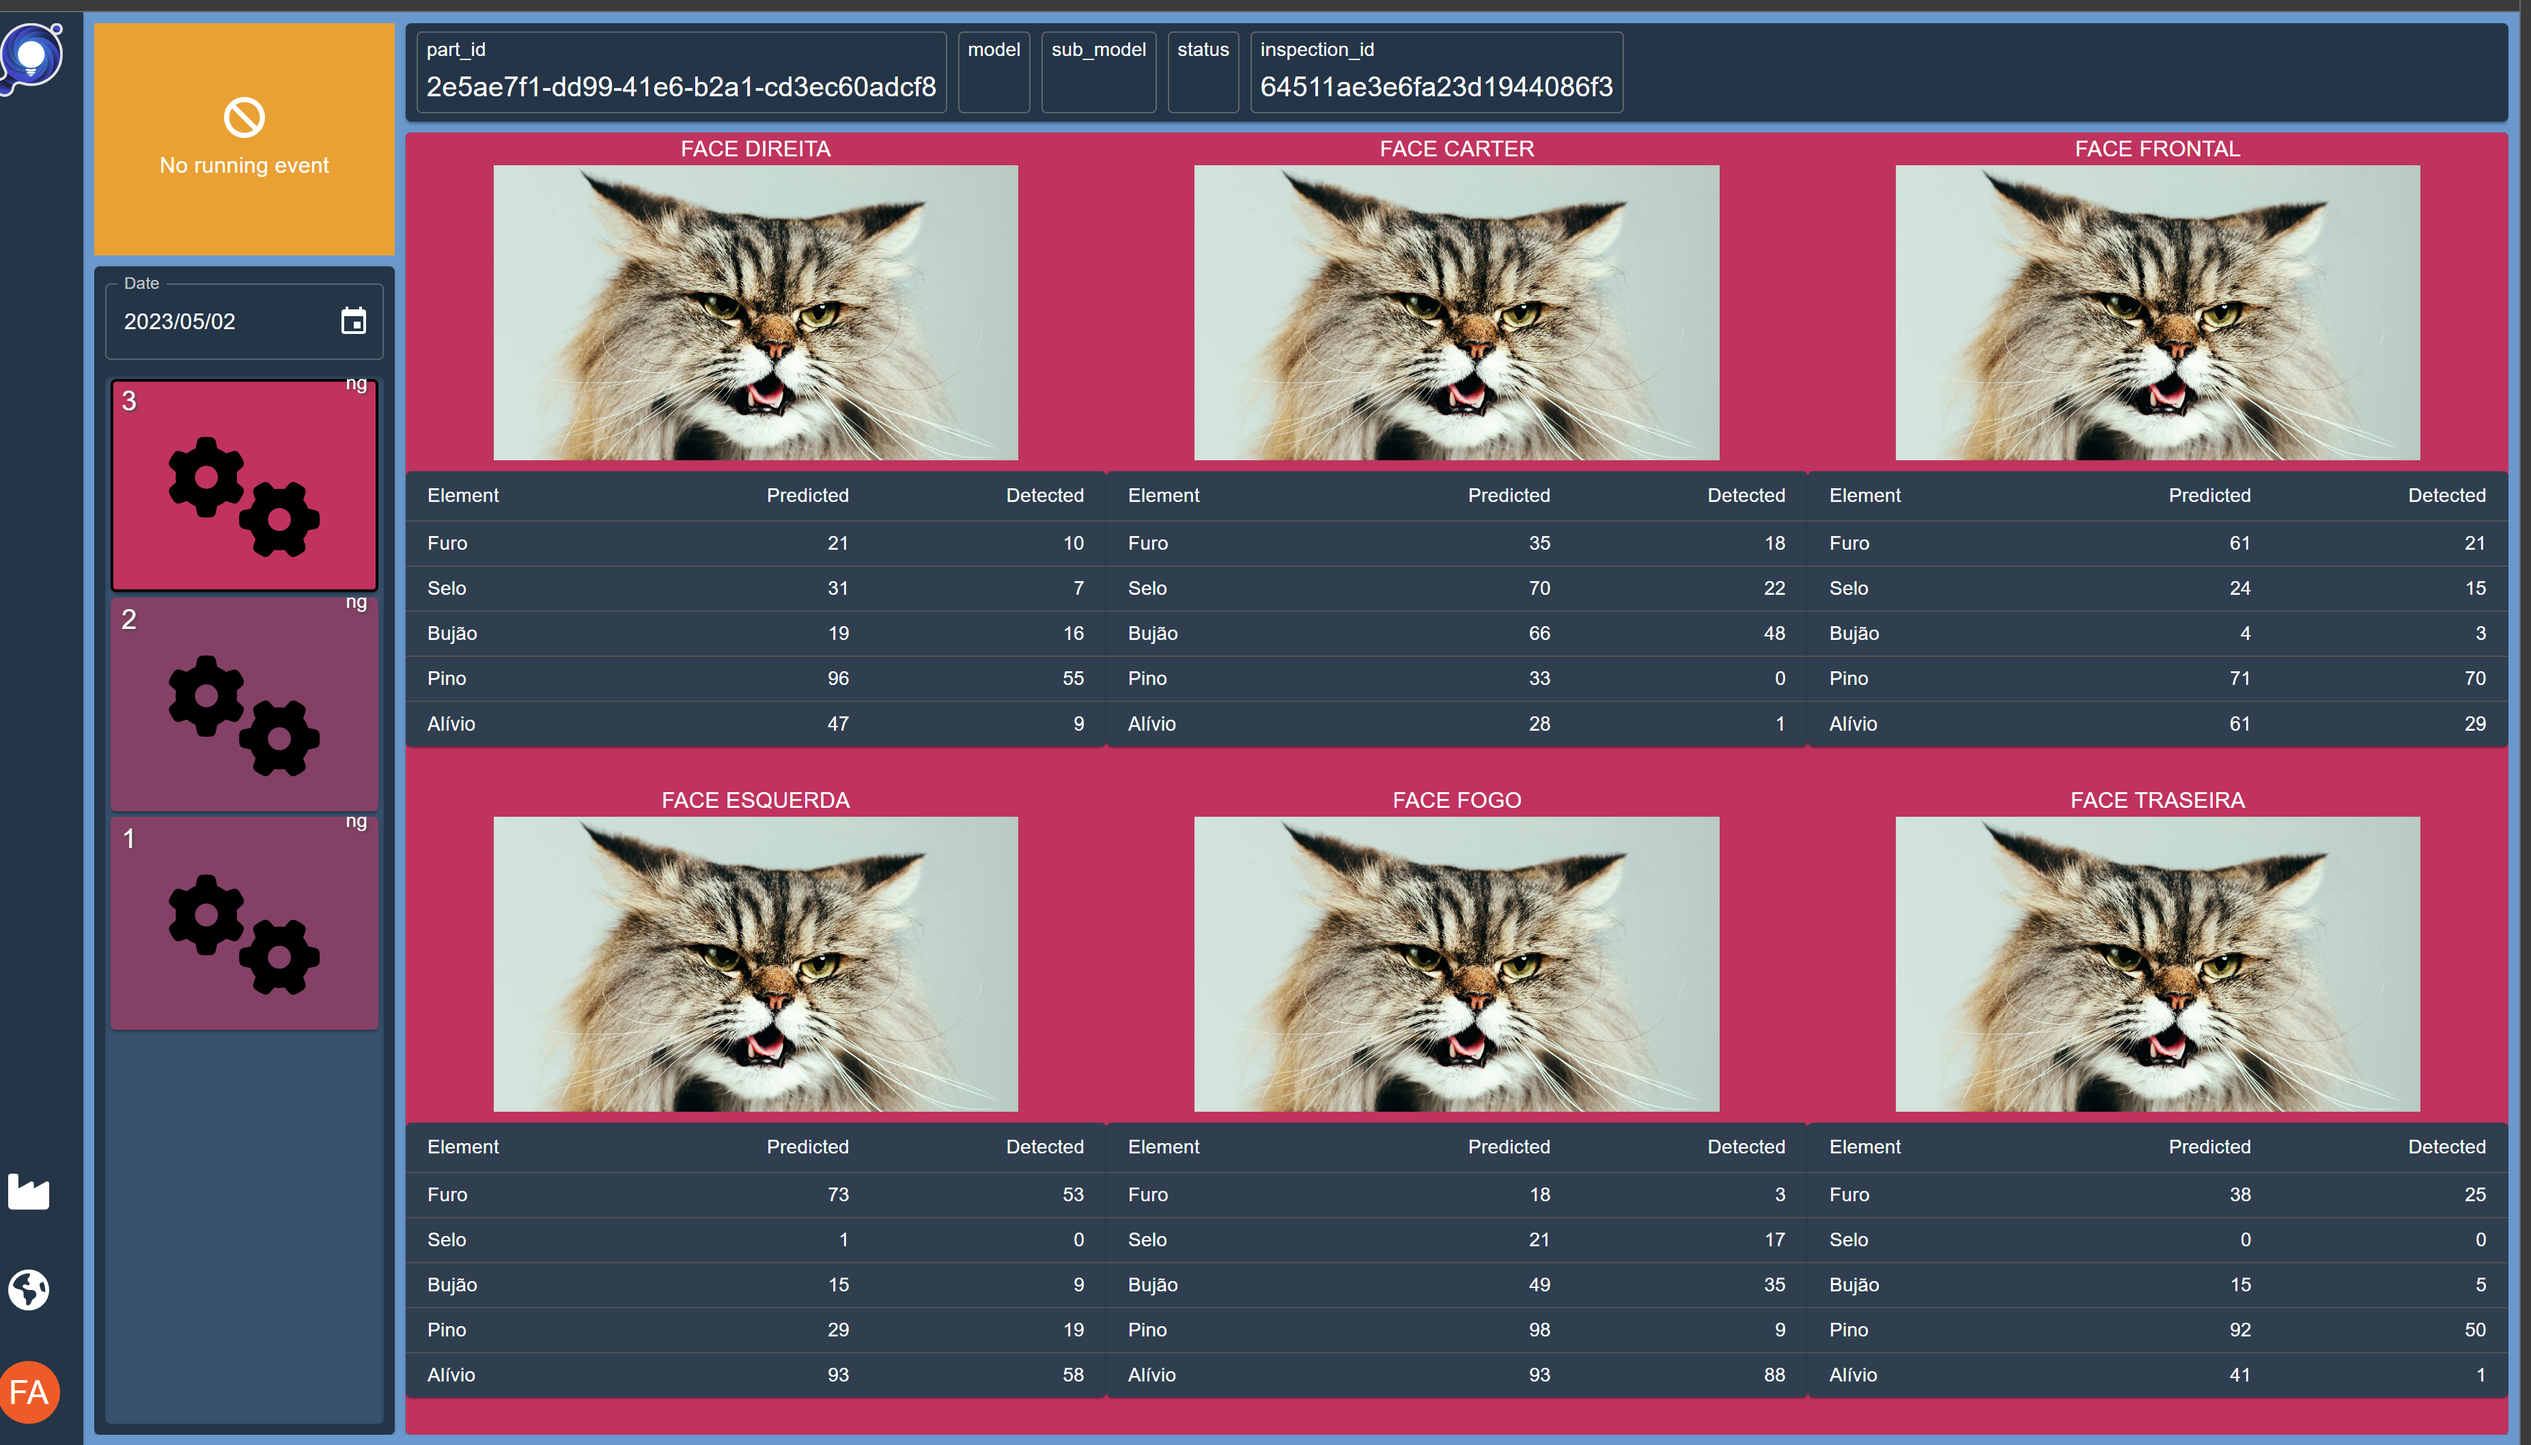
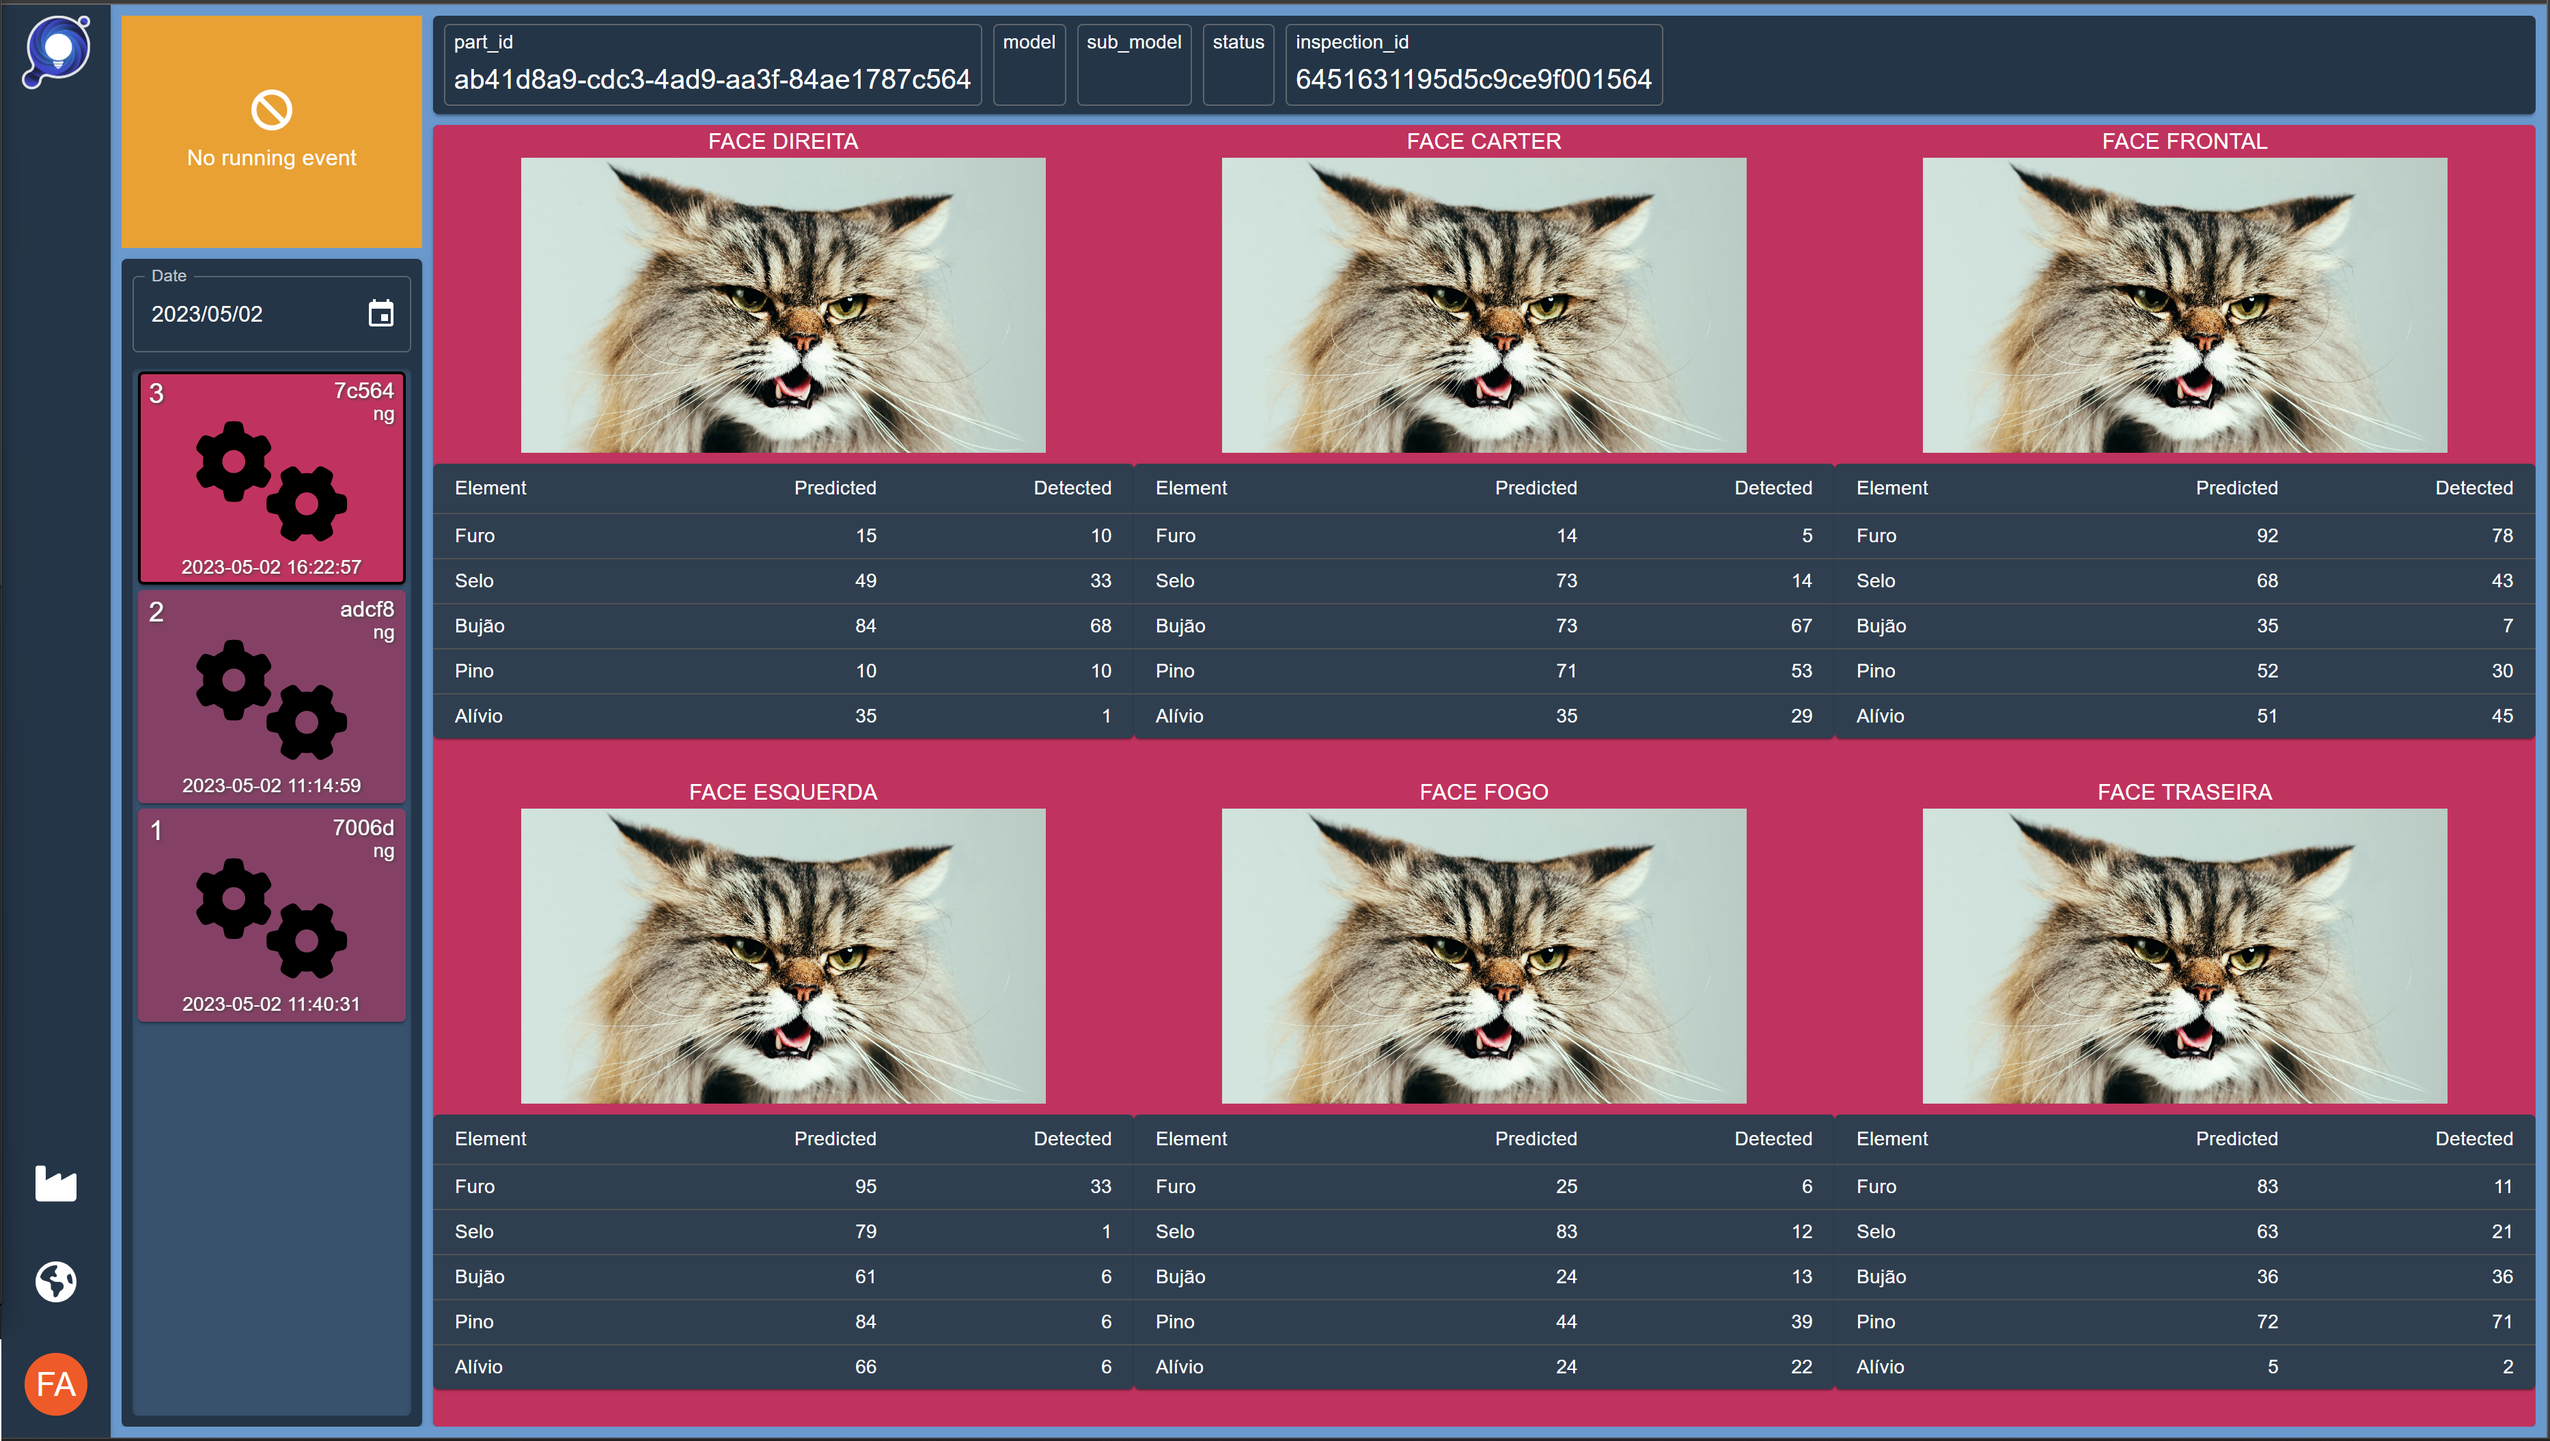
several adjustments in ux for serial hmi

Changed region(s): [[0.0, 0.0, 1.0, 1.0]]

diff --git a/src/components/EventSerialDataBox/index.js b/src/components/EventSerialDataBox/index.js
@@ -2,7 +2,7 @@
 import React, { useEffect, useState } from 'react';
 
 // Design
-import { Grid, Typography } from '@mui/material';
+import { CircularProgress, Grid, Typography, Box } from '@mui/material';
 import Table from '@mui/material/Table';
 import TableBody from '@mui/material/TableBody';
 import TableCell from '@mui/material/TableCell';
@@ -50,7 +50,13 @@ const styleSx = {
   mainBoxDisabled: Object.assign({}, mainBoxSx, { opacity: 0.8 }),
 };
 
-export default function EventSerialDataBox({ data, config, disabled, appBarHeight }) {
+export default function EventSerialDataBox({
+  data
+  , config
+  , disabled
+  , appBarHeight
+  , loading
+}) {
 
   const [inspections, setInspections] = useState([]);
   const [openDialog, setOpenDialog] = useState(false);
@@ -74,6 +80,9 @@ export default function EventSerialDataBox({ data, config, disabled, appBarHeigh
       })
       setInspections(documents);
     }
+    else {
+      setInspections([]);
+    }
   }, [data]);
 
   useEffect(() => {
@@ -90,61 +99,81 @@ export default function EventSerialDataBox({ data, config, disabled, appBarHeigh
       container
     >
       {
-        inspections.map((inspection) => (
-          <Grid
-            item
-            key={inspection._id}
-            xs={6}
-            sx={{
-              justifyContent: 'center',
-              alignItems: 'center',
-              height: '100%',
-              backgroundColor: inspection.ok ? colors.statuses['ok'] : colors.statuses['ng'],
-            }}
-          >
-            <Typography textAlign={'center'} textTransform={'uppercase'}>
-              {inspection.event_data.scan_data.surface}
-            </Typography>
-            <img
-              src="/assets/cat.webp"
-              style={{
-                objectFit: 'contain',
-                width: "calc(2560px * 0.15)",
-                display: 'block',
-                margin: 'auto',
-                paddingBottom: '.5rem',
-                cursor: 'pointer',
+        !loading && inspections.length > 0 ?
+          inspections.map((inspection) => (
+            <Grid
+              item
+              key={inspection._id}
+              xs={6}
+              sx={{
+                justifyContent: 'center',
+                alignItems: 'center',
+                height: '100%',
+                backgroundColor: inspection.ok ? colors.statuses['ok'] : colors.statuses['ng'],
               }}
-              alt="Inspection"
-              onClick={() => { setOpenDialog(true); setDialogTitle(inspection.event_data.scan_data.surface) }}
-            />
-            <TableContainer component={Paper}>
-              <Table size="small" aria-label="info table">
-                <TableHead>
-                  <TableRow>
-                    <TableCell>{t('element')}</TableCell>
-                    <TableCell align="right">{t('predicted')}</TableCell>
-                    <TableCell align="right">{t('detected')}</TableCell>
-                  </TableRow>
-                </TableHead>
-                <TableBody>
-                  {inspection?.tableInfo.map((row) => (
-                    <TableRow
-                      key={row[0]}
-                      sx={{ '&:last-child td, &:last-child th': { border: 0 } }}
-                    >
-                      <TableCell component="th" scope="row">
-                        {row[0]}
-                      </TableCell>
-                      <TableCell align="right">{row[1]}</TableCell>
-                      <TableCell align="right">{row[2]}</TableCell>
+            >
+              <Typography textAlign={'center'} textTransform={'uppercase'}>
+                {inspection.event_data.scan_data.surface}
+              </Typography>
+              <img
+                src="/assets/cat.webp"
+                style={{
+                  objectFit: 'contain',
+                  width: "calc(2560px * 0.15)",
+                  display: 'block',
+                  margin: 'auto',
+                  paddingBottom: '.5rem',
+                  cursor: 'pointer',
+                }}
+                alt="Inspection"
+                onClick={() => { setOpenDialog(true); setDialogTitle(inspection.event_data.scan_data.surface) }}
+              />
+              <TableContainer component={Paper}>
+                <Table size="small" aria-label="info table">
+                  <TableHead>
+                    <TableRow>
+                      <TableCell>{t('element')}</TableCell>
+                      <TableCell align="right">{t('predicted')}</TableCell>
+                      <TableCell align="right">{t('detected')}</TableCell>
                     </TableRow>
-                  ))}
-                </TableBody>
-              </Table>
-            </TableContainer>
-          </Grid>
-        ))
+                  </TableHead>
+                  <TableBody>
+                    {inspection?.tableInfo.map((row) => (
+                      <TableRow
+                        key={row[0]}
+                        sx={{ '&:last-child td, &:last-child th': { border: 0 } }}
+                      >
+                        <TableCell component="th" scope="row">
+                          {row[0]}
+                        </TableCell>
+                        <TableCell align="right">{row[1]}</TableCell>
+                        <TableCell align="right">{row[2]}</TableCell>
+                      </TableRow>
+                    ))}
+                  </TableBody>
+                </Table>
+              </TableContainer>
+            </Grid>
+          ))
+          :
+          (
+            loading &&
+            <Box
+              sx={{
+                display: 'flex',
+                justifyContent: 'center',
+                alignItems: 'center',
+                height: '100%',
+              }}
+            >
+              <CircularProgress
+                sx={{
+                  color: 'white',
+                }}
+                size='10rem'
+              />
+            </Box>
+          )
       }
 
       <ImageDialog

diff --git a/src/pages/MonitorSerial/index.js b/src/pages/MonitorSerial/index.js
@@ -43,14 +43,20 @@ export default function Monitor({ pageOptions }) {
 
   const [selectedSerial, setSelectedSerial] = useState(null);
   const [selectedSerialCountData, setSelectedSerialCountData] = useState(null);
+  const [loadingSelected, setLoadingSelected] = useState(false);
 
   const onChangeEvent = (serialId) => {
+    setSelectedSerial(null);
+    setLoadingSelected(true);
     API.get.serial({ stationId, serialId })
       .then((data) => {
         setSelectedSerial(data?.serial);
         setSelectedSerialCountData(data.countData);
       })
-      .catch(console.error);
+      .catch(console.error)
+      .finally(() => {
+        setLoadingSelected(false);
+      });
   };
 
   useEffect(() => {
@@ -133,6 +139,7 @@ export default function Monitor({ pageOptions }) {
             events={serialList}
             loadingData={loadingSerialList}
             selectedEventId={selectedSerial?._id ?? null}
+            setSelectedEvent={setSelectedSerial}
             onChangeEvent={onChangeEvent}
             queryParams={queryParams}
             onChangeParams={onChangeParams}
@@ -161,6 +168,7 @@ export default function Monitor({ pageOptions }) {
                 disabled={!selectedSerial}
                 config={pageOptions.components.EventSerialDataBox}
                 appBarHeight={pageOptions.components.EventAppBar.height}
+                loading={loadingSelected}
               />
             </Box>
           </Box>

diff --git a/src/components/EventMenuBox/index.js b/src/components/EventMenuBox/index.js
@@ -97,6 +97,7 @@ export default function EventMenuList({
   runningEvent,
   events,
   selectedEventId,
+  setSelectedEvent,
   queryParams,
   loadingData,
   onChangeParams,
@@ -165,6 +166,12 @@ export default function EventMenuList({
       setMenuBoxHeight(height - serialButtonBoxHeight);
     }
   }, [type, height, batchButtonBoxHeight, serialButtonBoxHeight])
+
+  useEffect(() => {
+    if (runningEvent?._id !== selectedEventId) {
+      setSelectedEvent(null);
+    }
+  }, [dateValue])
 
   return (
     <Box id="event-menu-box" width={width} sx={styleSx.mainBox}>
